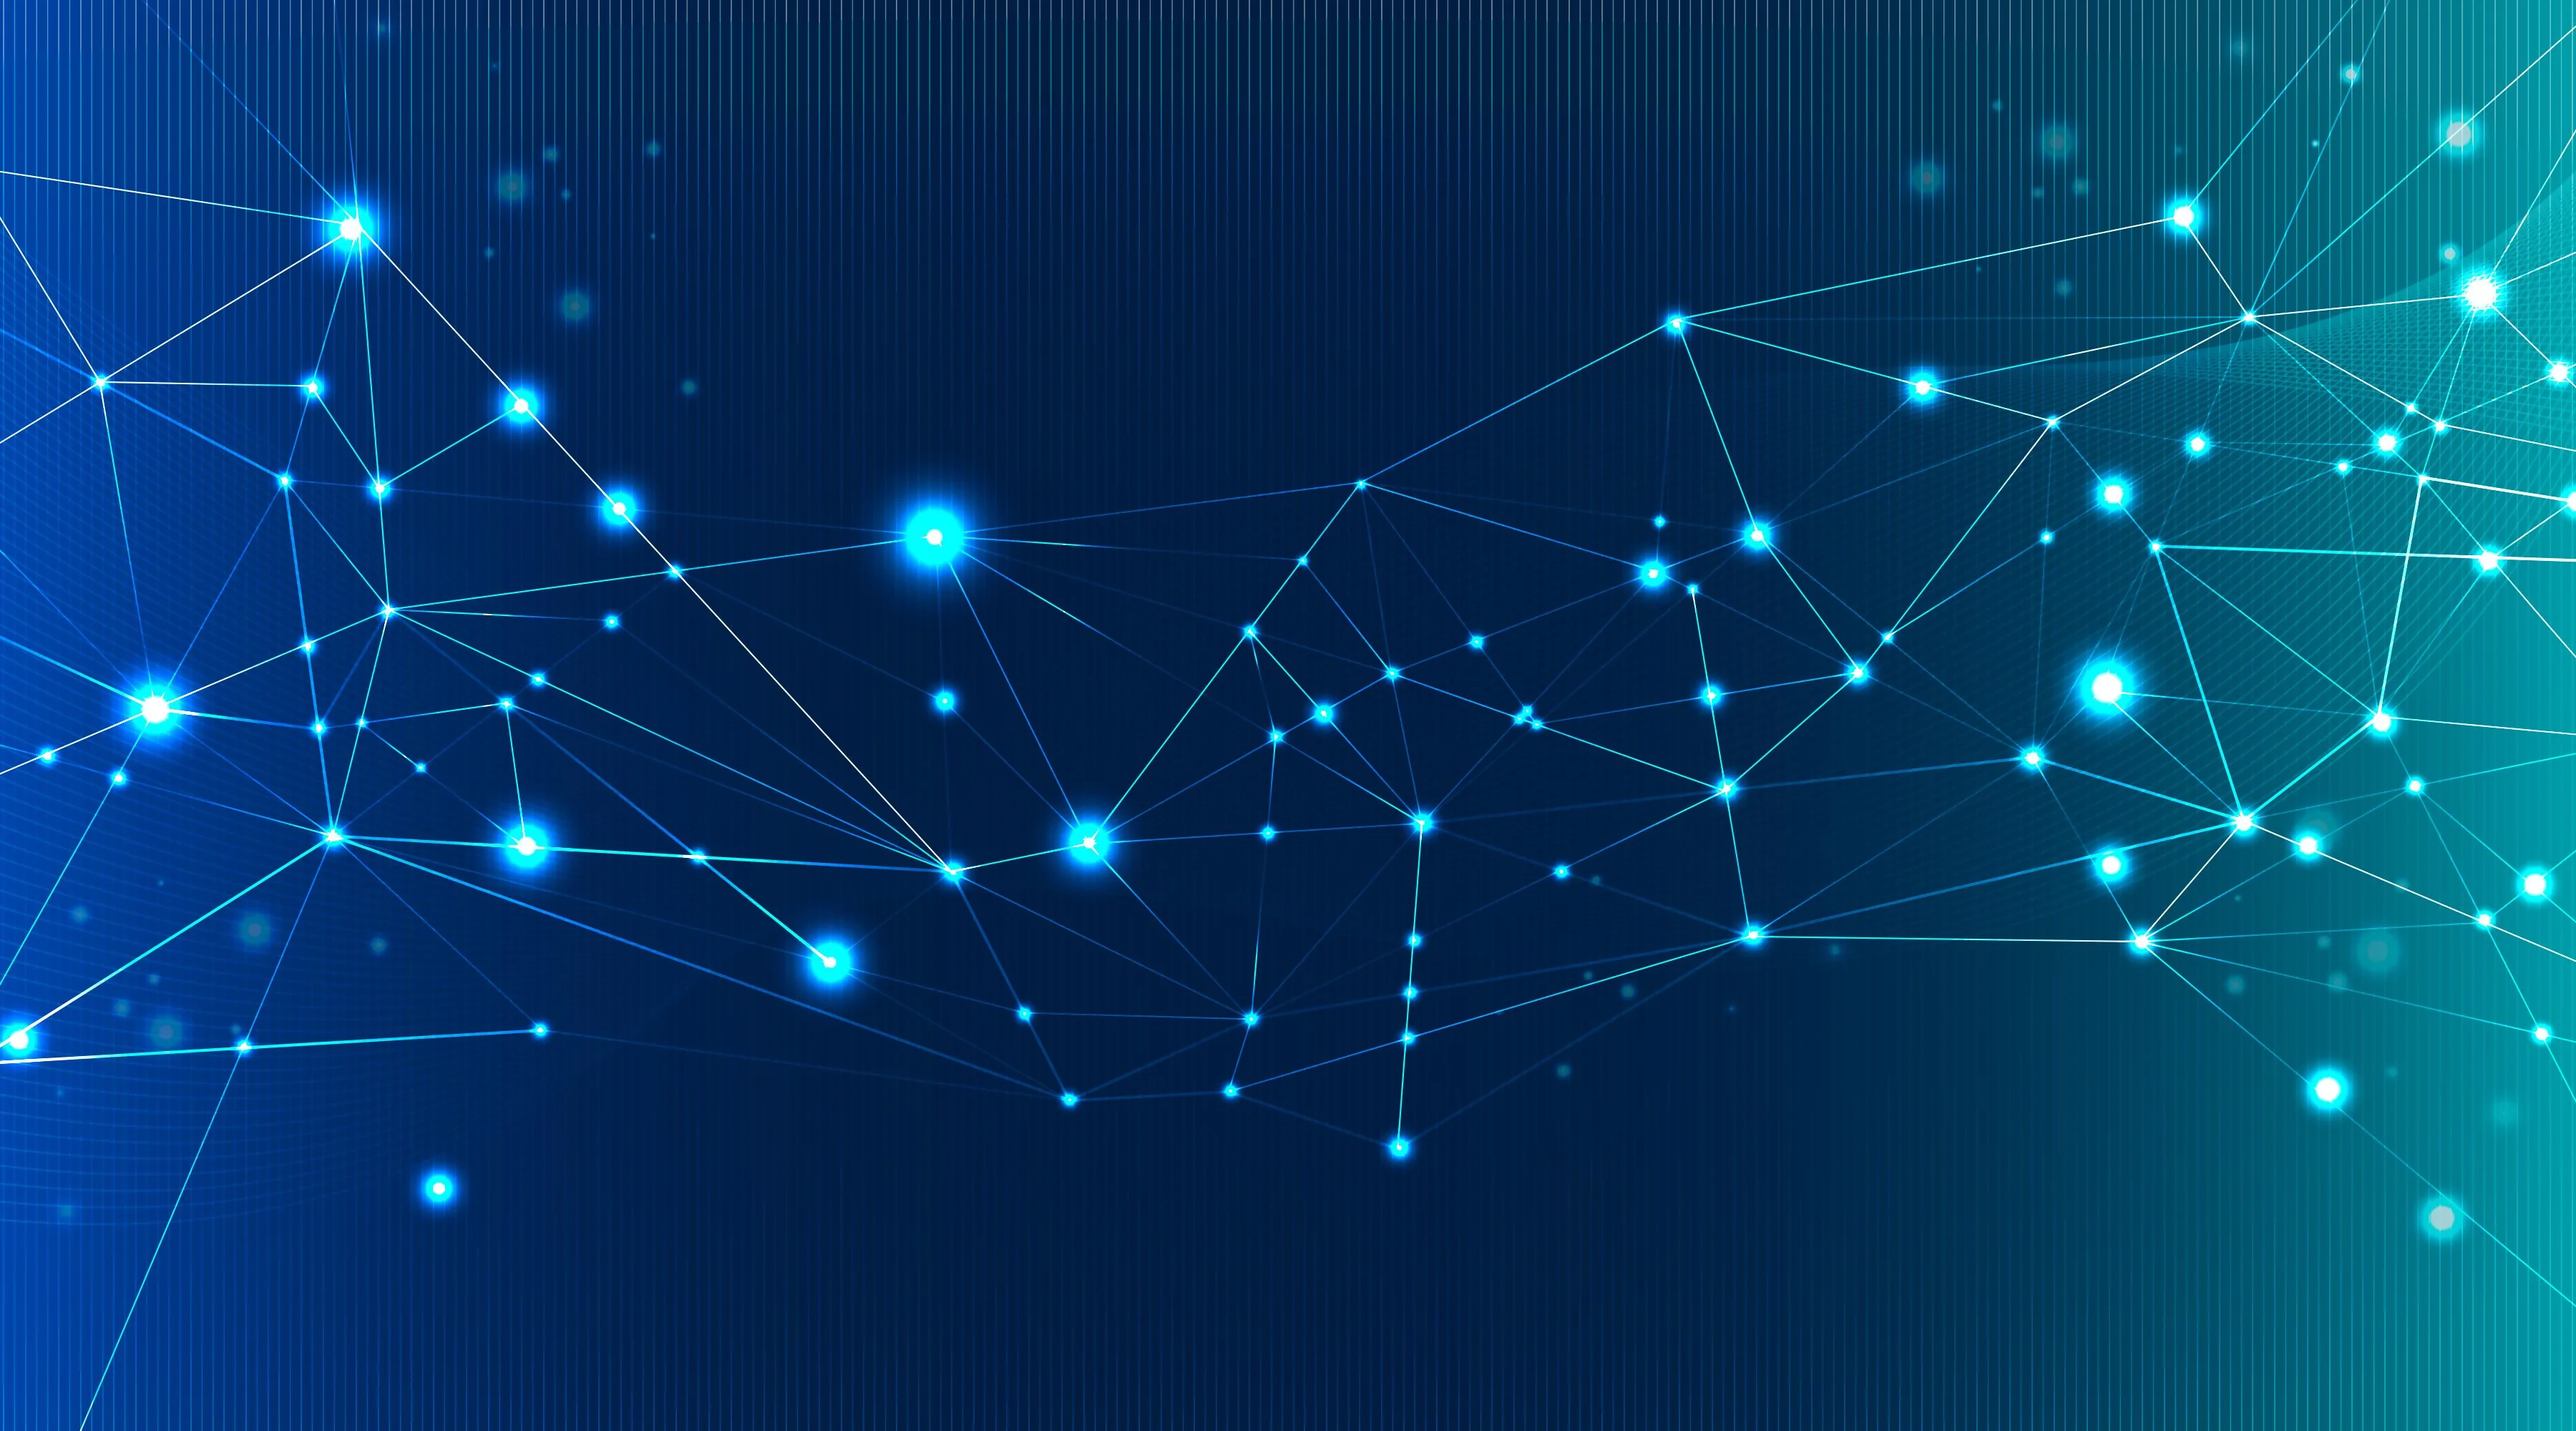
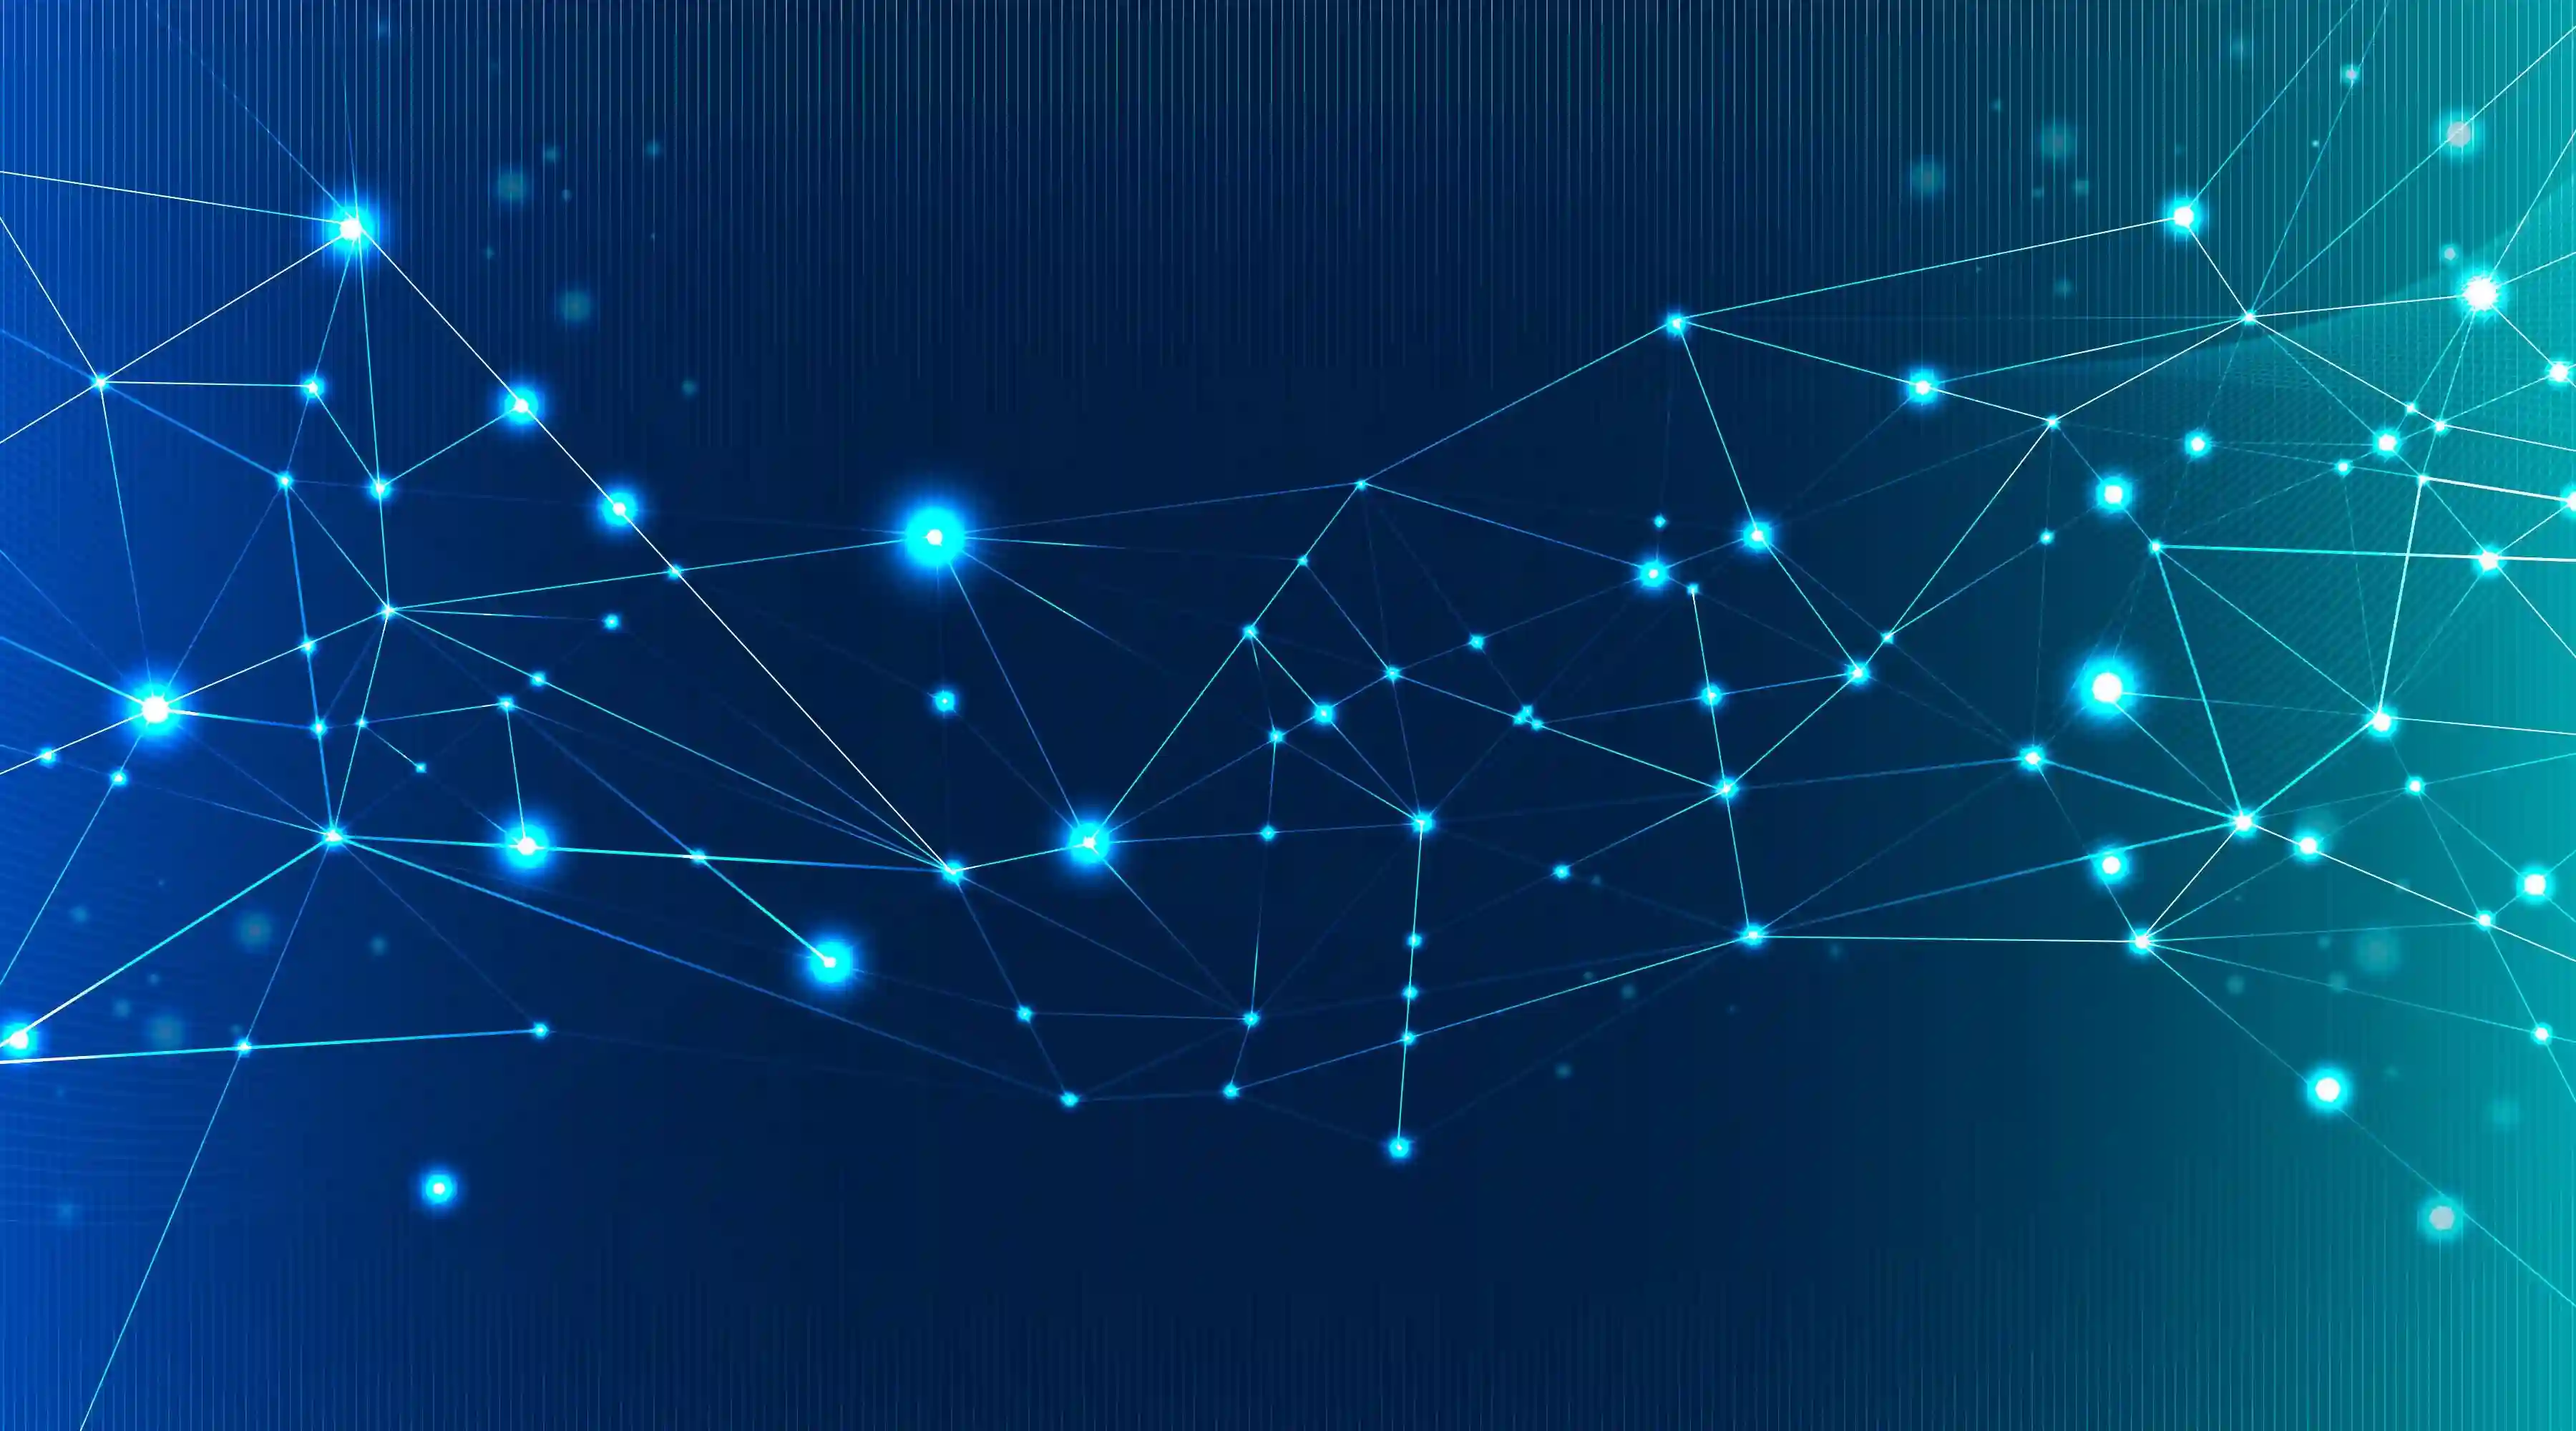
cambio de imagen red-web por una de menor peso 88kb

diff --git a/index.html b/index.html
@@ -2,8 +2,8 @@
 <html lang="en">
 	<head>
 		<meta charset="UTF-8" />
-		<!-- <meta http-equiv="Content-Security-Policy" content="script-src 'self' https://www.gstatic.com/recaptcha/releases/fGZmEzpfeSeqDJiApS_XZ4Y2/recaptcha__es_419.js https://www.google.com/recaptcha/api.js https://s3.tradingview.com/tv.js https://static.tradingview.com/static ; object-src 'none';base-uri 'none'"> -->
-		<!-- <meta http-equiv="Content-Security-Policy" content="script-src 'sha256-BsYEszKzhrbM6DVczyf//TqYt6elubOlUMA5xuuuOOQ=' 'sha256-PPH+Xc+AYOnDBdZljnllkW05WmzRo46g9+ui2PLQGWw=' 'sha256-nhP5qihC3I5x7ljXy3uE5sdN1CPjFZ3eVqeyXGRXQEw=' 'sha256-c81oEifCxSIEJ9+rGiO8ogZLpB79OYZ1I8zYG+PPiZY=' 'sha256-DeID4ULUyV9a4qwKDAfL1KrVkYhZ2B080B2a/FW83So='; object-src 'none';base-uri 'none'"> -->
+		<!-- <meta http-equiv="Content-Security-Policy" content="script-src 'self' 'sha256-NWVmNjZmOTVjZTVlYTI4NGQwMzJiYjEyZDIwNGEyYTA1MDc2ZjE4MWNjZTk5MTA1ZjJmOGRiODI1MmNiNWNhOQ=='  "> -->
+		<!-- <meta http-equiv="Content-Security-Policy" content="script-src  'self' 'sha256-BsYEszKzhrbM6DVczyf//TqYt6elubOlUMA5xuuuOOQ=' 'sha256-PPH+Xc+AYOnDBdZljnllkW05WmzRo46g9+ui2PLQGWw=' 'sha256-nhP5qihC3I5x7ljXy3uE5sdN1CPjFZ3eVqeyXGRXQEw=' 'sha256-c81oEifCxSIEJ9+rGiO8ogZLpB79OYZ1I8zYG+PPiZY=' 'sha256-DeID4ULUyV9a4qwKDAfL1KrVkYhZ2B080B2a/FW83So='; object-src 'none';base-uri 'none'"> -->
 		<meta name="viewport" content="width=device-width, initial-scale=1.0" />
 		<meta name="description" content="Pagina de prueba que en el futuro sera usada para criptos y cripto juegos" >
 		<!-- <link rel="stylesheet"  href="https://cdnjs.cloudflare.com/ajax/libs/font-awesome/6.4.2/css/all.min.css"> -->
@@ -12,7 +12,7 @@
 		<!-- <script src="http://localhost:8097"></script> -->
 		<link rel="icon" href="public/favicon.ico" type="image/x-icon">
 		
-		
+		<!-- https://www.gstatic.com/recaptcha/releases/fGZmEzpfeSeqDJiApS_XZ4Y2/recaptcha__es_419.js https://www.google.com/recaptcha/api.js https://s3.tradingview.com/tv.js https://static.tradingview.com/static -->
 		<title>Limitless</title>
 	</head>
 	<body >
